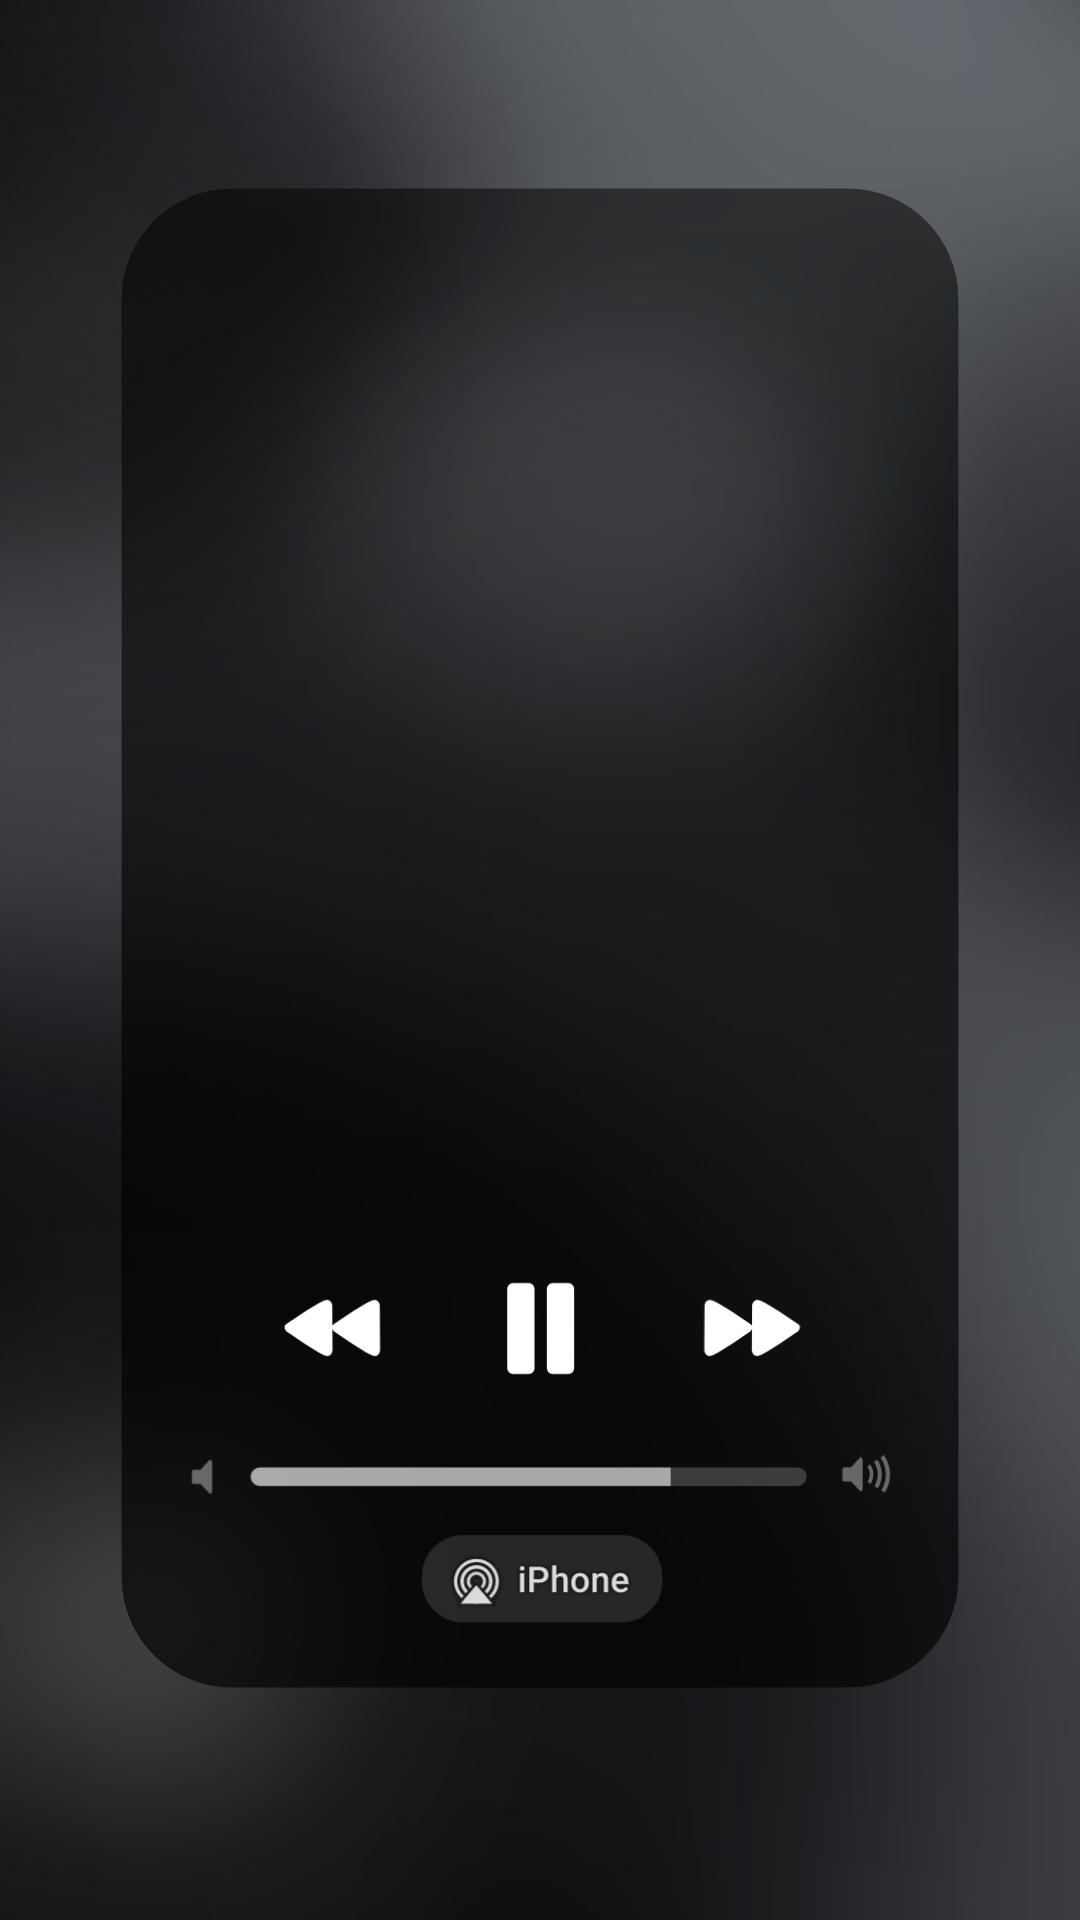
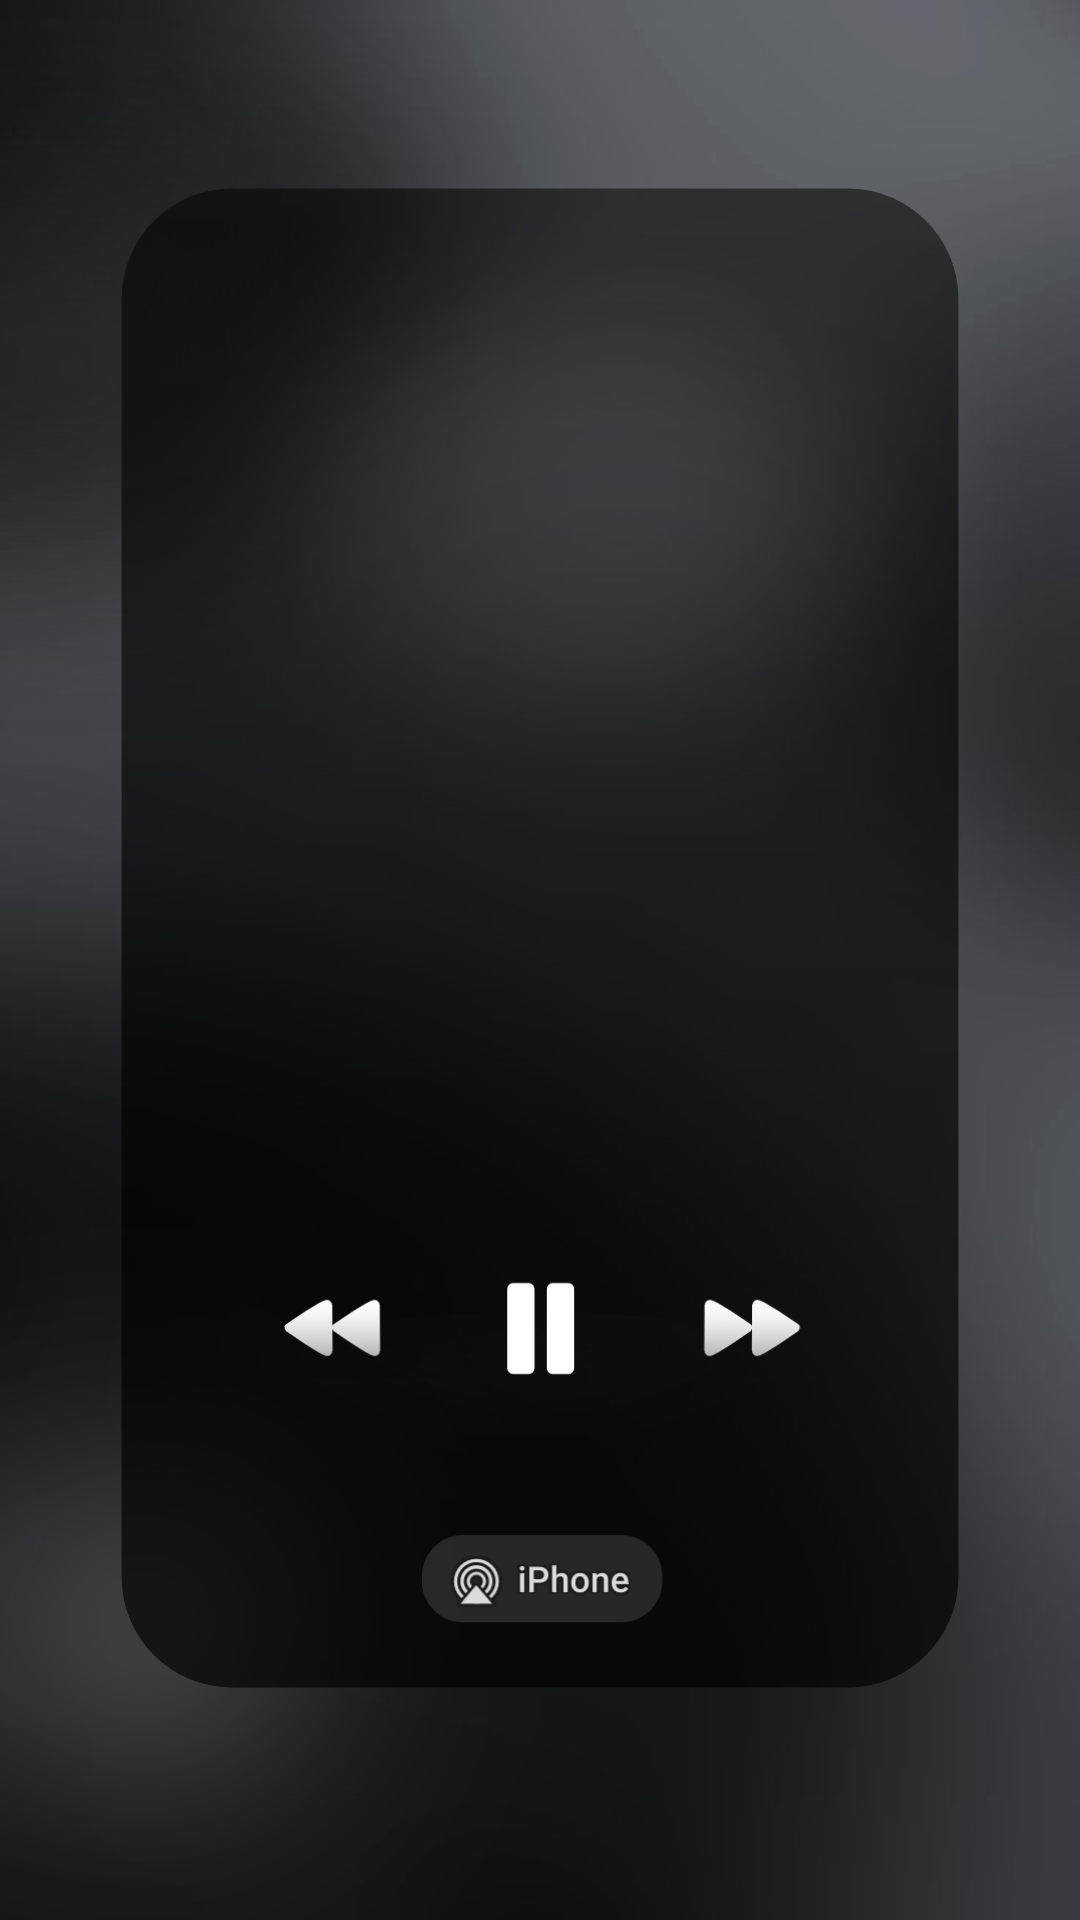
Add files via upload

Changed region(s): [[0.1833, 0.75, 0.825, 0.7812], [0.6417, 0.6875, 0.7333, 0.7188], [0.275, 0.6875, 0.3667, 0.7188]]

diff --git a/index.html b/index.html
@@ -167,10 +167,35 @@ body{
 }
 .volume-track{
   position:absolute; left:0; top:35%; width:100%; height:30%;
-  background:#4f4f4f; border-radius:20px; overflow:hidden;
+  background:#505050cd; border-radius:20px; overflow:hidden;
 }
 .volume-isi{ width:100%; height:100%; background:#b8b8b8; }
 
+/* BAR VOLUME MODE 16:9 */
+.wadah.mode-16-9 .volume-area{
+  display:block; position:absolute; left:52%; width:35.2%; top:64.2%; height:10%;
+  z-index:6; touch-action:none; cursor:pointer;
+}
+.wadah.mode-16-9 .volume-track{ top:42%; height:16%; }
+
+/* IKON VOLUME 9:16 (hanya 1 yang tampil) */
+.vol-ikon{ display:none; }
+.wadah.mode-9-16 .vol-ikon.aktif{
+  display:block; position:absolute; inset:0; width:100%; height:100%;
+  object-fit:contain; z-index:2; pointer-events:none;
+}
+  /* IKON VOLUME 16:9 (hanya 1 yang tampil) */
+.vol-ikon-h{ display:none; }
+.wadah.mode-16-9 .vol-ikon-h.aktif{
+  display:block; position:absolute; inset:0; width:100%; height:100%;
+  object-fit:contain; z-index:4; pointer-events:none;
+}
+
+  /* AREA GESER DURASI LAGU (transparan, lebih tebal supaya gampang disentuh) */
+.progress-area{ position:absolute; z-index:6; touch-action:none; cursor:pointer; -webkit-tap-highlight-color:transparent; }
+.wadah.mode-9-16 .progress-area{ left:17.2%; width:65.6%; top:58.5%; height:4%; }
+.wadah.mode-16-9 .progress-area{ left:48.5%; width:43%; top:28.5%; height:6%; }
+  
 /* GLOW WARNA DARI FOTO ALBUM */
 .glow{ position:absolute; pointer-events:none; mix-blend-mode:screen; z-index:2; opacity:.85; }
 .wadah.mode-9-16 .glow{ left:0; top:0; width:100%; height:100%; }
@@ -228,6 +253,16 @@ body{
 <div class="wadah mode-9-16" id="wadah">
   <img class="kerangka" id="imgKerangka" src="KERANGKA.jpg" alt="Kerangka Musik">
   <img class="mentahan" id="imgMentahan" src="PAUSE.jpg" alt="Mentahan">
+  <img class="vol-ikon" id="volIkon1" src="1_VOLUME_9_16.jpg" alt="">
+<img class="vol-ikon" id="volIkon2" src="2_VOLUME_9_16.jpg" alt="">
+<img class="vol-ikon" id="volIkon3" src="3_VOLUME_9_16.jpg" alt="">
+<img class="vol-ikon" id="volIkon4" src="4_VOLUME_9_16.jpg" alt="">
+  <img class="vol-ikon-h" id="volIkonH1" src="1_16_9.jpg" alt="">
+<img class="vol-ikon-h" id="volIkonH2" src="2_16_9.jpg" alt="">
+<img class="vol-ikon-h" id="volIkonH3" src="3_16_9.jpg" alt="">
+<img class="vol-ikon-h" id="volIkonH4" src="4_16_9.jpg" alt="">
+
+  
   <canvas class="glow" id="glow"></canvas>
 
   <div class="album">
@@ -245,6 +280,7 @@ body{
   <div class="progress-lagu">
     <div class="progress-terisi" id="isi"></div>
   </div>
+  <div class="progress-area" id="progArea"></div>
   <div class="waktu waktu-kiri" id="kiri">0.00</div>
   <div class="waktu waktu-kanan" id="kanan">– 0.00</div>
 
@@ -294,7 +330,7 @@ body{
 <button id="rekam">● Rekam video</button>
 <button id="stop" class="secondary" disabled>■ Berhenti</button>
 </div>
-<div id="status">Pilih mode preview, lalu klik Rekam!</div>
+<div id="status"></div>
 <a id="download" class="unduh">Simpan hasil video MP4</a>
 <a class="btn-saluran" href="https://whatsapp.com/channel/0029Vb8aeQk72WTy3X8OQZ1R" target="_blank" rel="noopener noreferrer">📢 Info Update</a> 
 <div class="info-saluran">©Fharid Rmx</div>
@@ -540,11 +576,22 @@ let volume = 1;
 const volArea = document.getElementById('volArea');
 const volIsi = document.getElementById('volIsi');
 
+const ikonVol = [1,2,3,4].map(n => document.getElementById('volIkon'+n));
+const ikonVolH = [1,2,3,4].map(n => document.getElementById('volIkonH'+n));
+let ikonAktif = 0;
+function pilihIkon(v){
+  // bagi rata per 25%: 0-25% -> gambar 1, 25-50% -> 2, 50-75% -> 3, 75-100% -> 4
+  return Math.min(3, Math.floor(v * 4));
+}
 function setVolume(v){
   volume = Math.min(1, Math.max(0, v));
   volIsi.style.width = (volume * 100) + '%';
   if(gainNode) gainNode.gain.value = volume;
+  ikonAktif = pilihIkon(volume);
+  ikonVol.forEach((im, i) => im.classList.toggle('aktif', i === ikonAktif));
+  ikonVolH.forEach((im, i) => im.classList.toggle('aktif', i === ikonAktif));
 }
+  
 function volDariPosisi(e){
   const r = volArea.getBoundingClientRect();
   setVolume((e.clientX - r.left) / r.width);
@@ -640,6 +687,29 @@ function update(){
   }
 }
 audio.addEventListener('timeupdate', update);
+  /* ===== GESER DURASI LAGU (hanya preview, tidak mempengaruhi ekspor) ===== */
+const progArea = document.getElementById('progArea');
+let progSeret = false;
+function bolehGeserLagu(){
+  return !sedangMerekam && !modalEkspor.classList.contains('aktif');
+}
+function cariDariPosisi(e){
+  const d = audio.duration;
+  if(!Number.isFinite(d) || d <= 0) return;
+  const r = progArea.getBoundingClientRect();
+  const p = Math.min(1, Math.max(0, (e.clientX - r.left) / r.width));
+  audio.currentTime = p * d;
+  update();
+}
+progArea.addEventListener('pointerdown', e => {
+  if(!bolehGeserLagu()) return;
+  progSeret = true;
+  try { progArea.setPointerCapture(e.pointerId); } catch(err){}
+  cariDariPosisi(e);
+});
+progArea.addEventListener('pointermove', e => { if(progSeret && bolehGeserLagu()) cariDariPosisi(e); });
+progArea.addEventListener('pointerup', () => { progSeret = false; });
+progArea.addEventListener('pointercancel', () => { progSeret = false; });
 audio.addEventListener('loadedmetadata', update);
 
 play.addEventListener('click', async () => {
@@ -882,8 +952,13 @@ document.getElementById('rekam').addEventListener('click', async () => {
       ctx.fillRect(pf.x, pf.y, pf.w, pf.h);
       ctx.restore();
 
+      {
+  const imIkon = (currentAspect === '9:16' ? ikonVol : ikonVolH)[ikonAktif];
+  if(imIkon && imIkon.complete && imIkon.naturalWidth) ctx.drawImage(imIkon, 0, 0, canvas.width, canvas.height);
+      }
+
       // Bar volume (hanya mode 9:16)
-      if(currentAspect === '9:16'){
+      {
         const volTrack = document.querySelector('.volume-track');
         const pt = posisi(volTrack);
         const cssT = getComputedStyle(volTrack);
@@ -965,8 +1040,8 @@ document.getElementById('rekam').addEventListener('click', async () => {
     recorder.start(250);
     renderCanvasFrame();
 
-    // Pre-roll khusus 16:9: biarkan encoder pemanasan dulu sebelum lagu mulai
-    if(currentAspect === '16:9'){
+        // Pre-roll (16:9 dan 9:16): biarkan encoder pemanasan dulu sebelum lagu mulai
+    {
       await new Promise(r => setTimeout(r, 700));
       if(!sedangMerekam) return; // kalau dibatalkan saat pre-roll
     }
